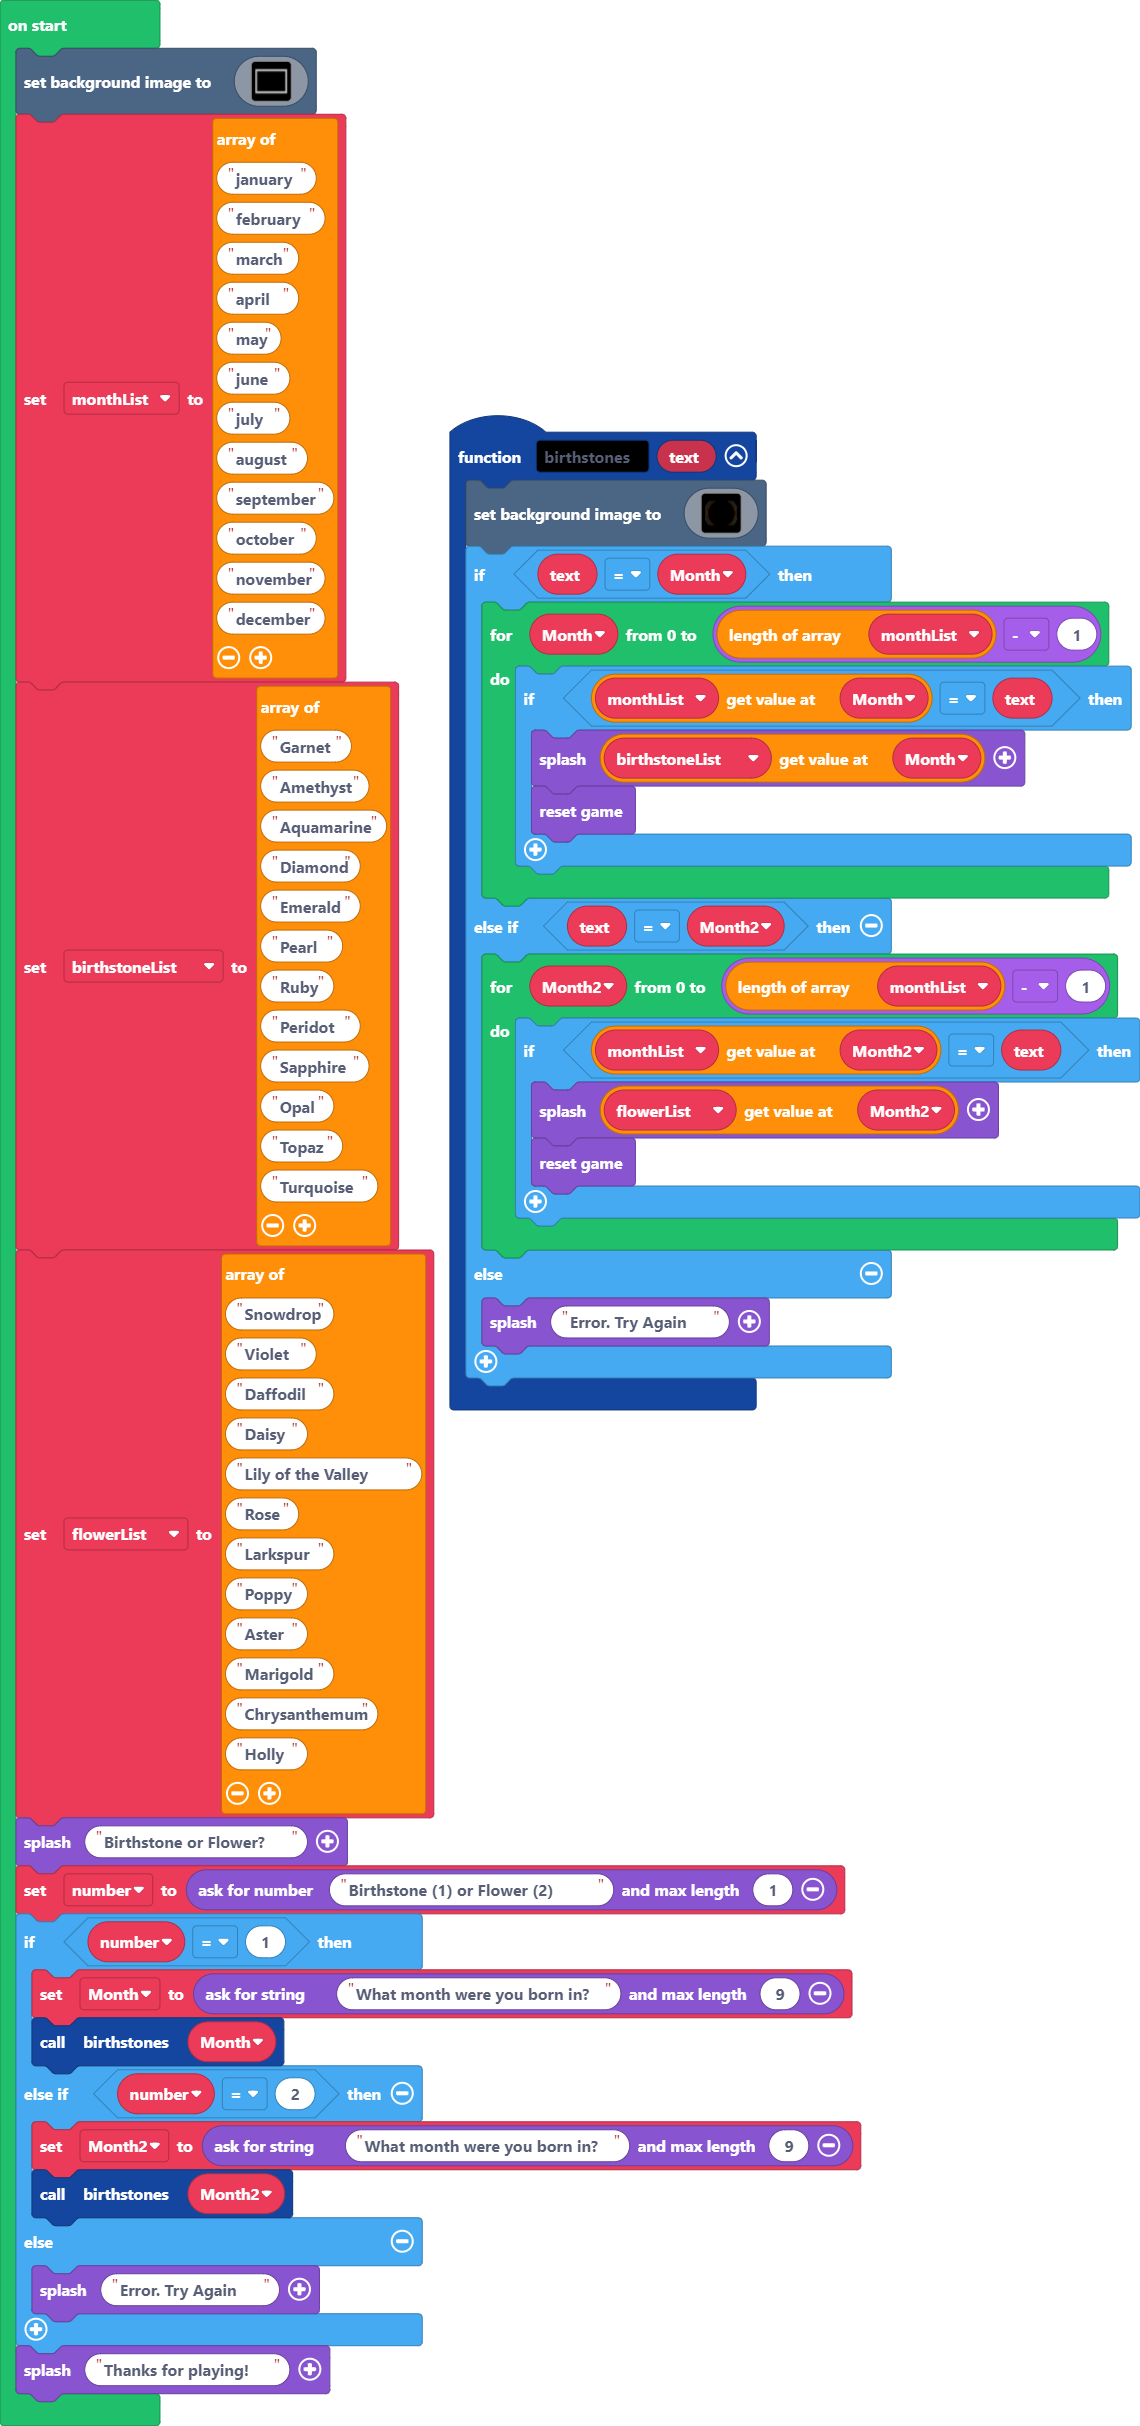
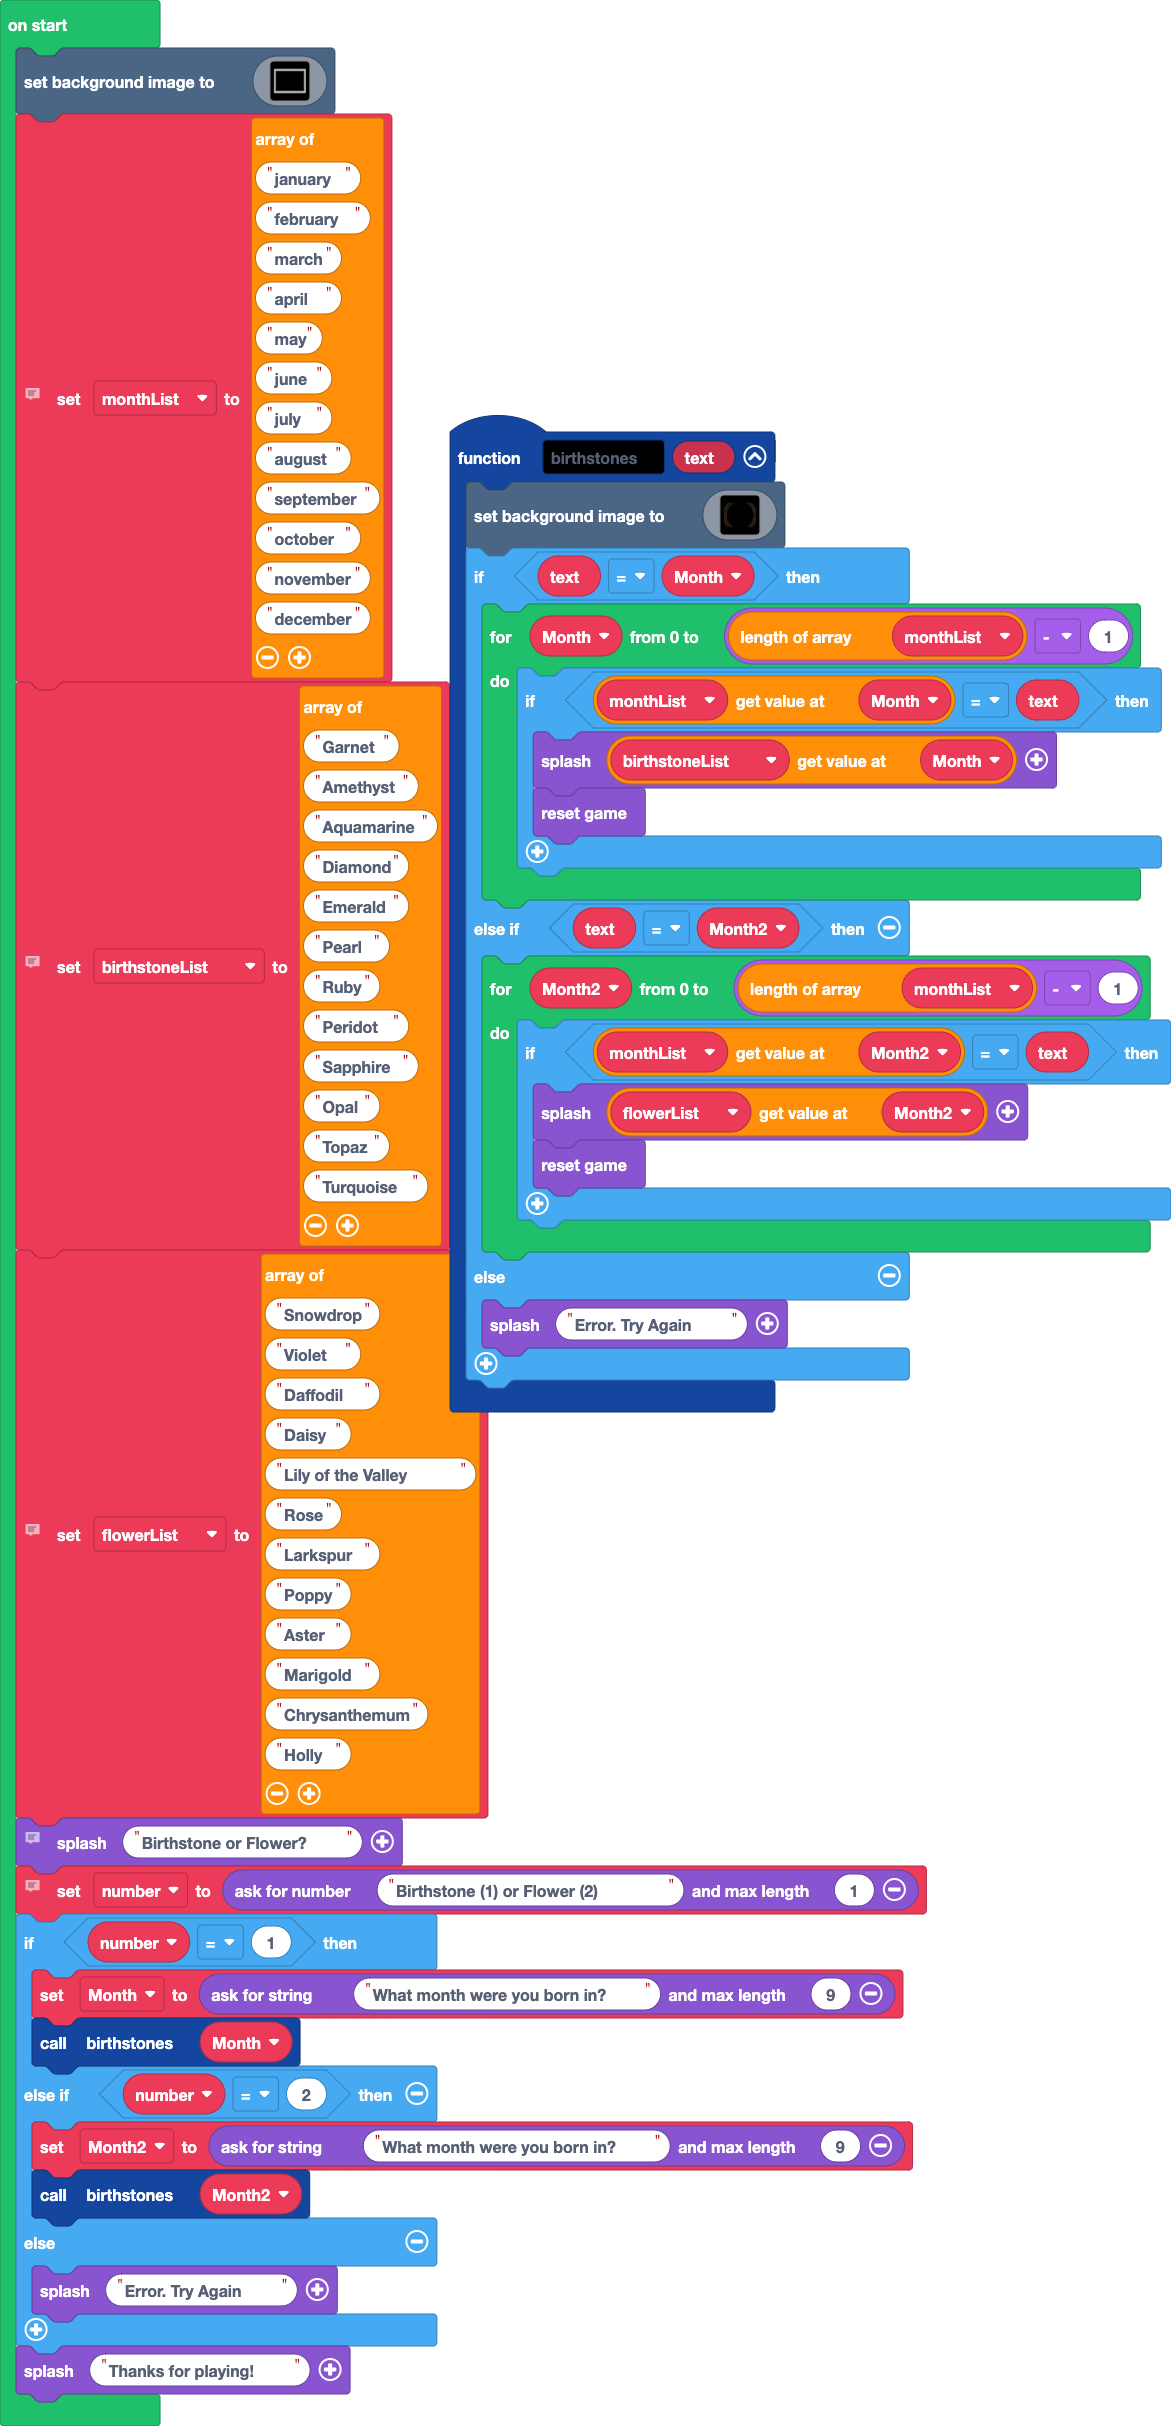
Update main.blocks, main.ts

diff --git a/main.ts b/main.ts
@@ -266,6 +266,7 @@ scene.setBackgroundImage(img`
     1111111111111111111111111111111111111111111111111111111111111111111111111111111111111111111111111111111111111111111111111111111111111111111111111111111111111111
     1111111111111111111111111111111111111111111111111111111111111111111111111111111111111111111111111111111111111111111111111111111111111111111111111111111111111111
     `)
+// This stores the different answers the users can give
 monthList = [
 "january",
 "february",
@@ -280,6 +281,7 @@ monthList = [
 "november",
 "december"
 ]
+// This stores the output for birthstones
 birthstoneList = [
 "Garnet",
 "Amethyst",
@@ -294,6 +296,7 @@ birthstoneList = [
 "Topaz",
 "Turquoise"
 ]
+// This stores the output for the birth flowers
 flowerList = [
 "Snowdrop",
 "Violet",
@@ -308,7 +311,9 @@ flowerList = [
 "Chrysanthemum",
 "Holly"
 ]
+// This is the first text displayed to the user and asks for input
 game.splash("Birthstone or Flower?")
+// Sets variable for input from which output the user wants
 let number = game.askForNumber("Birthstone (1) or Flower (2)", 1)
 if (number == 1) {
     Month = game.askForString("What month were you born in?", 9)
